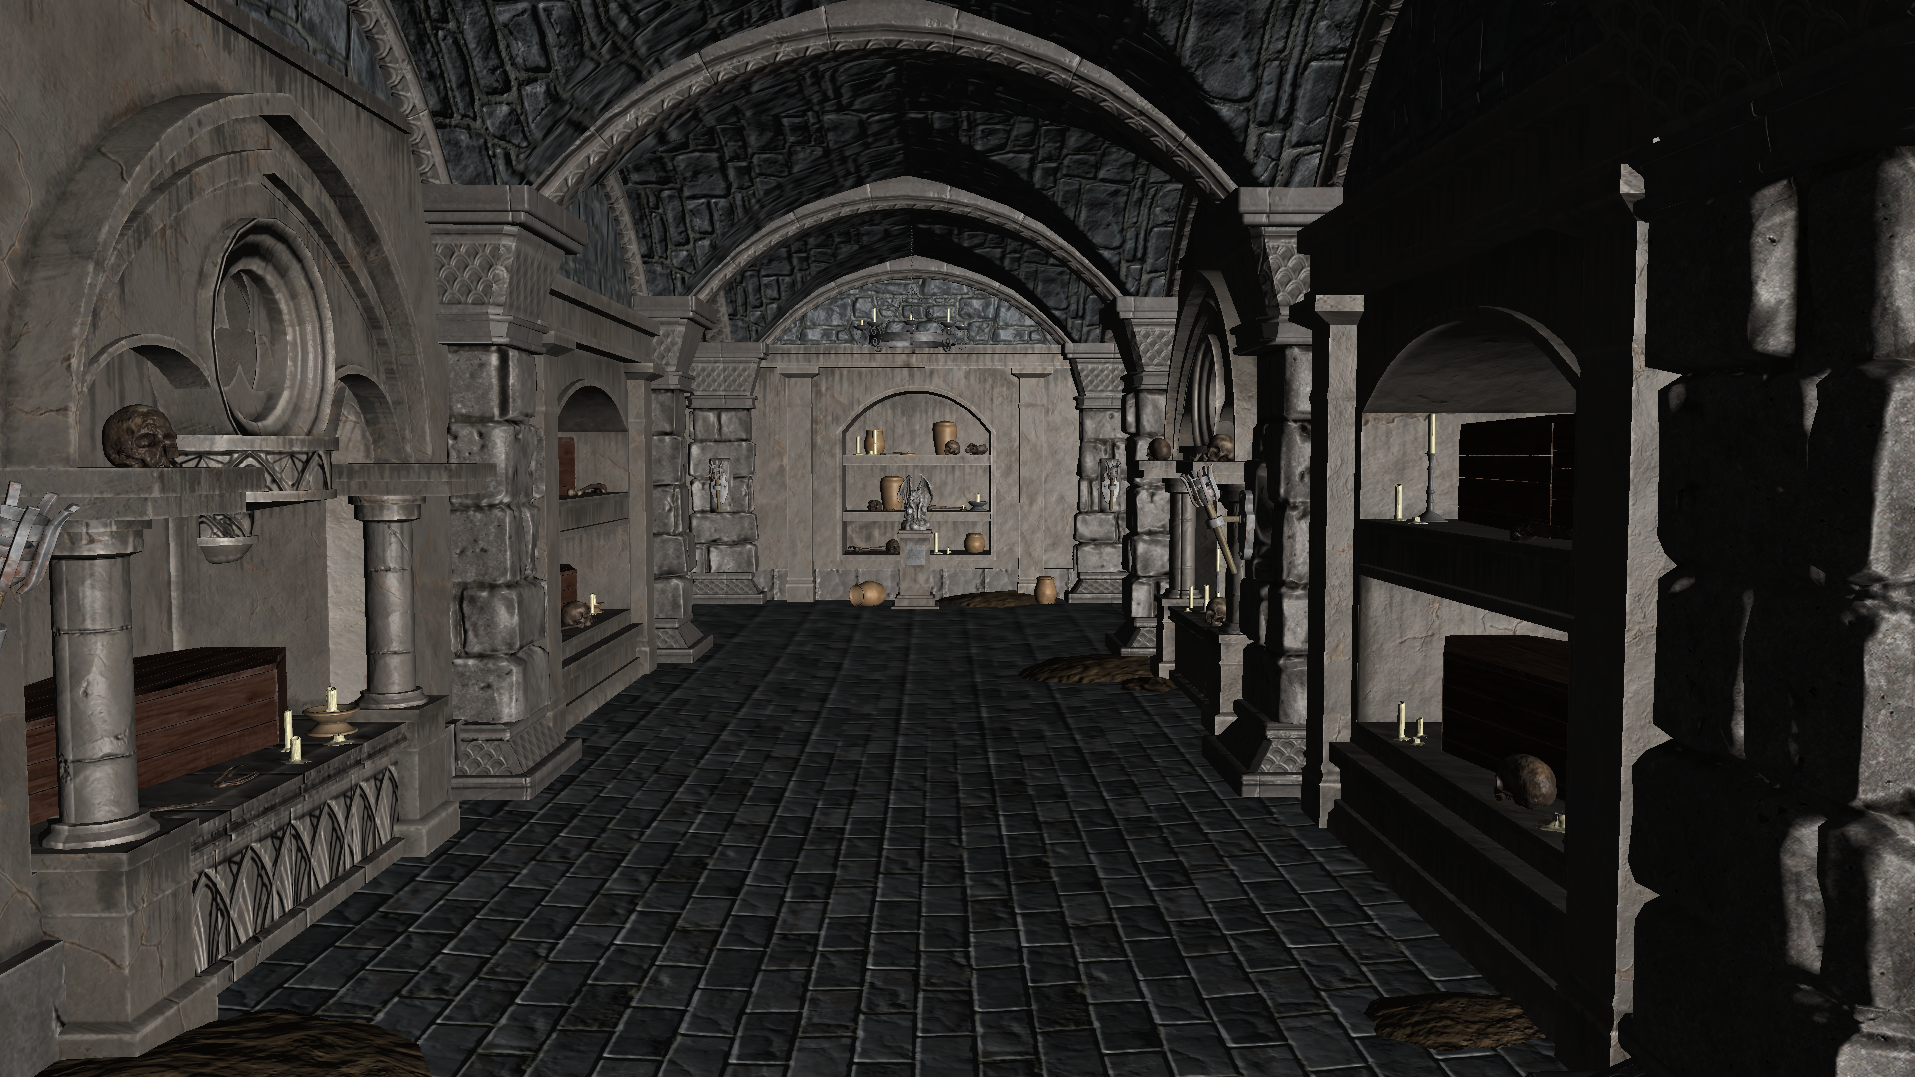
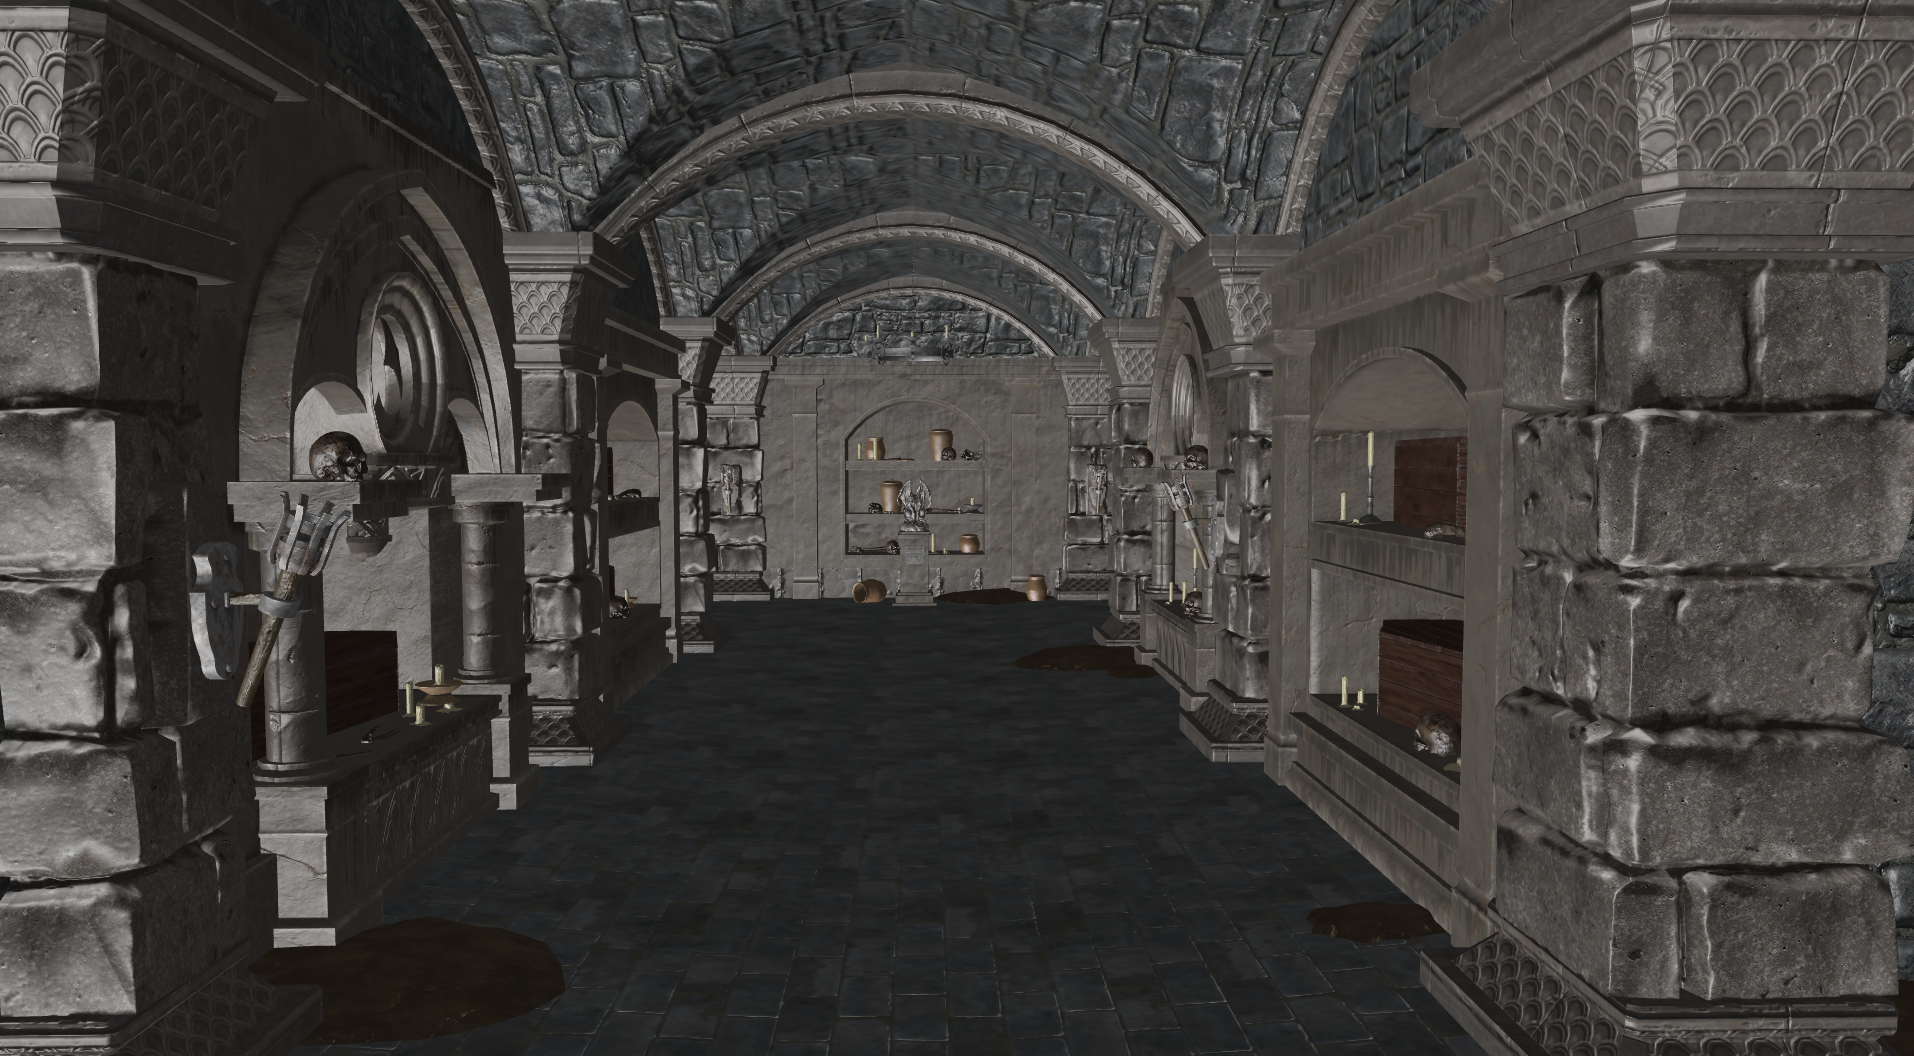
added multi-sample anti aliasing. changed screenshots

diff --git a/src/BirEngine.cpp b/src/BirEngine.cpp
@@ -28,6 +28,7 @@ int main()
     Shader* shader = createShader("Shaders/vertexShader.vs", "Shaders/fragmentShader.fs");
     Model* levelModel = createModel("assets/Medieval/Demonstration.obj", false);
     Level* level = createLevel("level.txt", levelModel);
+
     //lighting
     DirectionalLight* dirLight = createDirectionalLight(glm::vec3(200000.0f, 40000.0f, 20000.0f),
                                                         glm::vec3(0.1f, 0.1f, 0.1f),
@@ -42,16 +43,7 @@ int main()
                                            glm::vec3(0.0f, 0.0f, 0.0f),
                                            glm::vec3(0.402f, 0.65f, 1.0f),
                                            1.0f, 0.0014f, 0.000007f, 15.0f, 25.0f);
-    //TODO: complete skybox implementation
-    /*char* faces[6] = 
-    {   "assets/Skybox/right.jpg",
-        "assets/Skybox/left.jpg",
-        "assets/Skybox/top.jpg",
-        "assets/Skybox/bottom.jpg",
-        "assets/Skybox/front.jpg",
-        "assets/Skybox/back.jpg"
-    };*/
-    
+                                           
     while(!glfwWindowShouldClose(window))
     {
         float currentFrame = glfwGetTime();

diff --git a/src/Display.cpp b/src/Display.cpp
@@ -23,6 +23,7 @@ GLFWwindow* createDisplay()
     glfwWindowHint(GLFW_CONTEXT_VERSION_MAJOR, 3);
     glfwWindowHint(GLFW_CONTEXT_VERSION_MINOR, 3);
     glfwWindowHint(GLFW_OPENGL_PROFILE, GLFW_OPENGL_CORE_PROFILE);
+    glfwWindowHint(GLFW_SAMPLES, 4);
 
     GLFWwindow* window = glfwCreateWindow(SCREEN_WIDTH, SCREEN_HEIGHT, "BirEngineC", NULL, NULL);
 

diff --git a/src/Renderer.cpp b/src/Renderer.cpp
@@ -13,10 +13,15 @@
 #include "Level.h"
 #include "Shader.h"
 #include "Renderer.h"
+#include "Light.h"
+
+extern const int SHADOW_WIDTH;
+extern const int SHADOW_HEIGHT;
 
 void initiateRenderer()
 {
     glEnable(GL_CULL_FACE);
+    glEnable(GL_MULTISAMPLE);
     glCullFace(GL_BACK);
 }
 

diff --git a/src/Model.cpp b/src/Model.cpp
@@ -447,7 +447,7 @@ void setupMesh(Mesh* mesh)
 
     glBindVertexArray(0);
 }
-
+//TODO: complete skybox rendering
 void setupSkyBox(Mesh* skybox)
 {
     unsigned int skyboxVAO, skyboxVBO;

diff --git a/README.MD b/README.MD
@@ -1,6 +1,6 @@
 # BirEngine
 
-This is a 3D Game Engine written in C++ using OpenGL/GLSL programmable pipeline. You can view the engine in action here: https://drive.google.com/open?id=1EGnrf33Gpre6SsCIEaCXF2F5BuBW1lSa
+This is a 3D Game Engine written in C++ using OpenGL/GLSL programmable pipeline.
 
 Overview
 
@@ -11,6 +11,7 @@ This is a 3D Engine currently capable of:
 3. Blinn-Phong shading.
 4. Normal Mapping
 5. Portal based occlusion culling.
+6. Multi-sample anti aliasing
 
 Dependencies
 
@@ -29,4 +30,4 @@ There are few libraries that this code is developed with. Please find them below
 
 Screenshots
 
-![](/Screenshots/SS1.png) ![](/Screenshots/SS2.png) ![](/Screenshots/SS3.png)
+![](/Screenshots/SS1.png) ![](/Screenshots/SS2.png) ![](/Screenshots/SS3.png) ![](/Screenshots/SS4.png)
